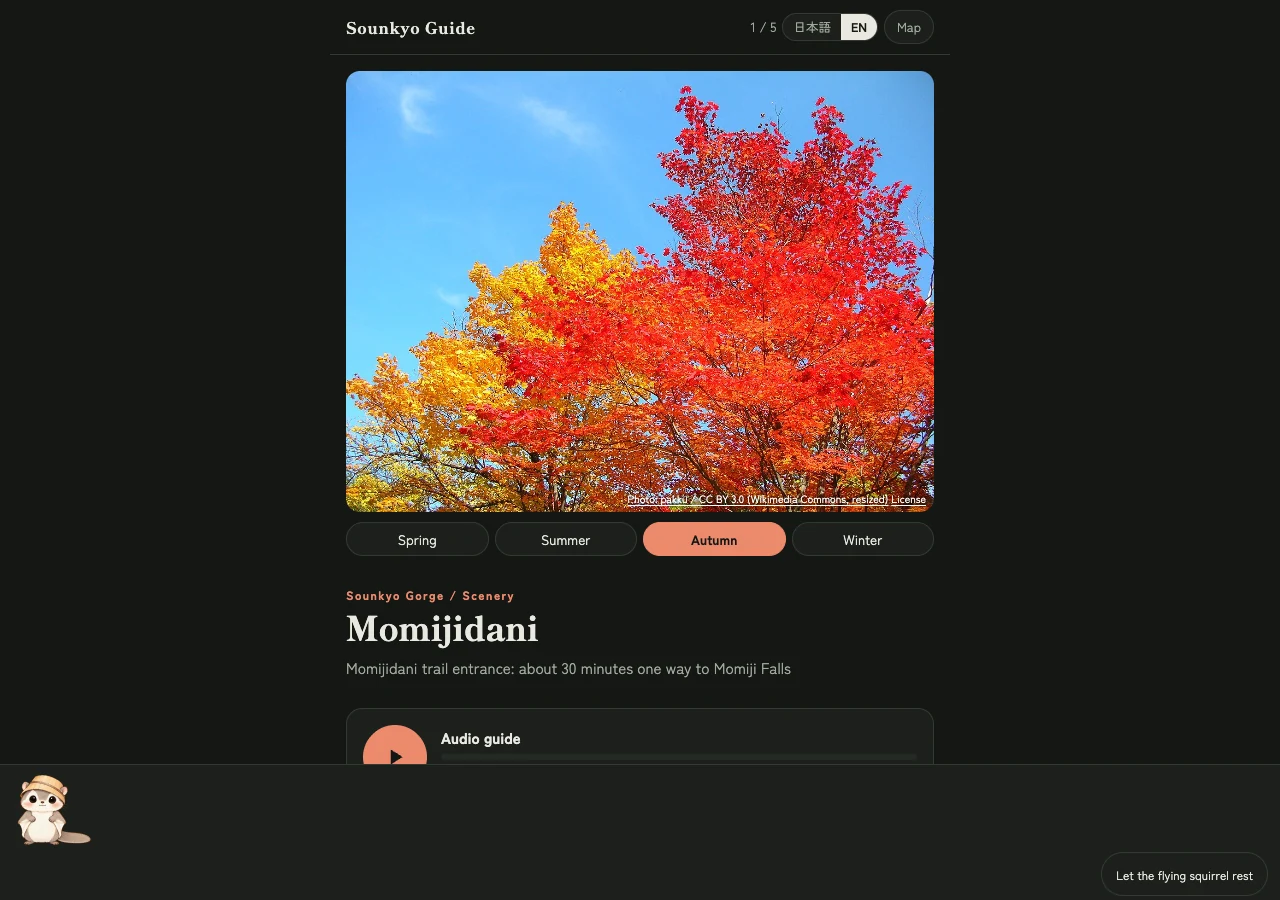
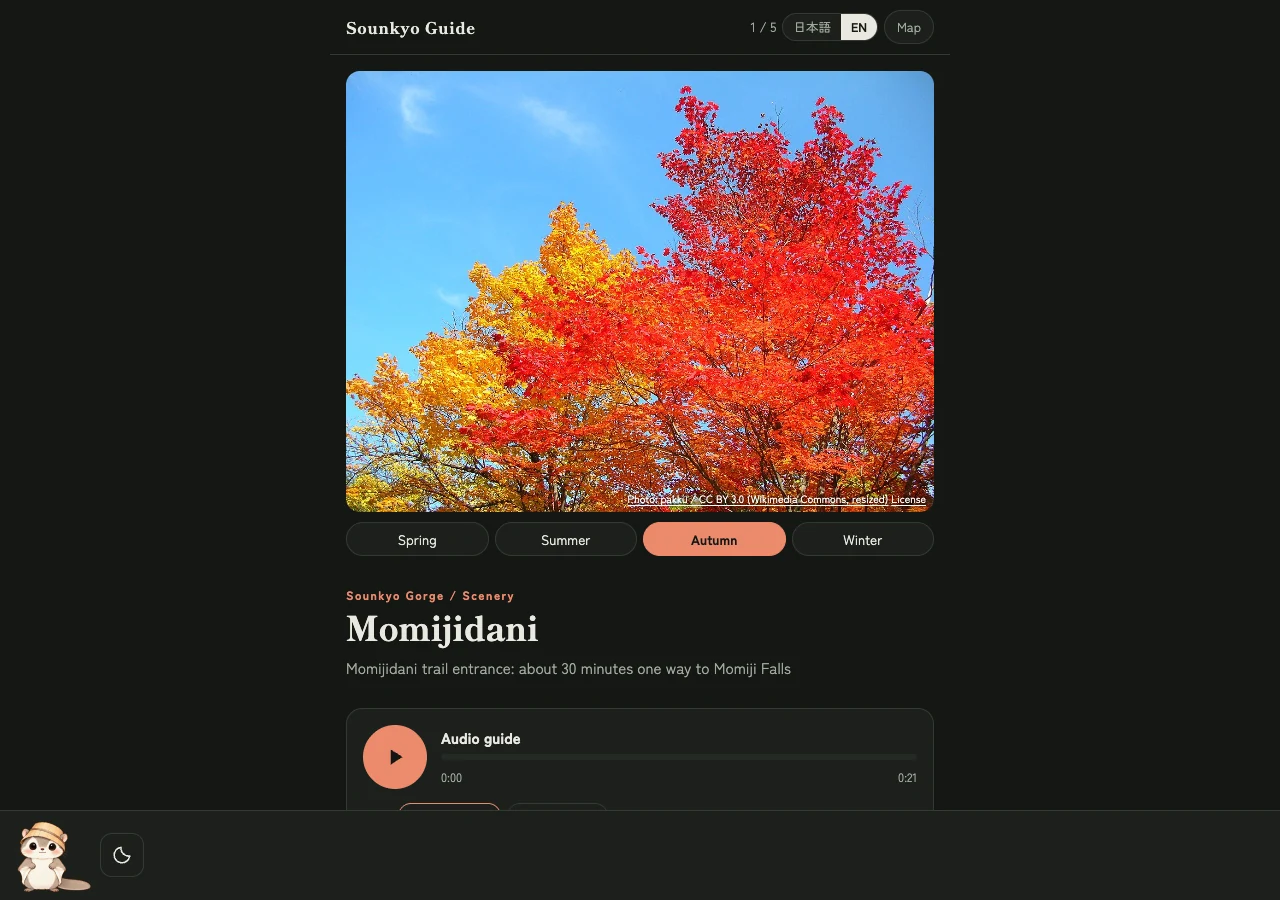
モモンガの帯を90pxに縮め、休ませる操作をアイコン化

diff --git a/momonga.js b/momonga.js
@@ -5,6 +5,11 @@
   if (!page) return;
   const POSES = ['stand','wave','crouch','jump','glide','land','think','surprise','sleepy','yuagari'];
   const STORAGE = 'sounkyo-guide:momonga-resting';
+  const DOCK = 'sounkyo-guide:momonga-dock';
+  const ICONS = {
+    rest: '<svg viewBox="0 0 24 24" fill="none" stroke="currentColor" stroke-width="1.7" stroke-linecap="round" stroke-linejoin="round" aria-hidden="true" focusable="false"><path d="M20.4 13.1A8.5 8.5 0 0 1 10.9 3.6a8.5 8.5 0 1 0 9.5 9.5Z"/></svg>',
+    wake: '<svg viewBox="0 0 24 24" fill="none" stroke="currentColor" stroke-width="1.7" stroke-linecap="round" aria-hidden="true" focusable="false"><circle cx="12" cy="12" r="4"/><path d="M12 2v2m0 16v2M2 12h2m16 0h2M4.9 4.9l1.4 1.4m11.4 11.4 1.4 1.4M4.9 19.1l1.4-1.4M17.7 6.3l1.4-1.4"/></svg>'
+  };
   const IDLE = 45000;
   const motion = matchMedia('(prefers-reduced-motion: reduce)');
   const reading = document.createElement('div');
@@ -14,7 +19,7 @@
   document.body.classList.add('momonga-enabled');
   const stage = document.createElement('div');
   stage.className = 'momonga-stage';
-  stage.innerHTML = '<div class="momonga-lane"></div><div class="momonga-position"><button type="button" class="momonga-pet" hidden><img alt="" width="80" height="80" draggable="false"></button><div class="momonga-dialogue" role="status" aria-live="polite" hidden></div></div><button type="button" class="momonga-rest"></button>';
+  stage.innerHTML = '<div class="momonga-lane"></div><div class="momonga-position"><button type="button" class="momonga-pet" hidden><img alt="" width="80" height="80" draggable="false"></button><button type="button" class="momonga-rest"></button><div class="momonga-dialogue" role="status" aria-live="polite" hidden></div></div>';
   document.body.append(stage);
   const lane = stage.querySelector('.momonga-lane');
   const position = stage.querySelector('.momonga-position');
@@ -25,8 +30,12 @@
   const credit = document.createElement('span');
   credit.className = 'momonga-credit';
   page.querySelector('footer')?.append(credit);
-  let resting = false;
-  try { resting = localStorage.getItem(STORAGE) === 'true'; } catch (_) { /* Storage can be denied. */ }
+  let resting = false, dockFraction = 0;
+  try {
+    resting = localStorage.getItem(STORAGE) === 'true';
+    const saved = Number(localStorage.getItem(DOCK));
+    if (Number.isFinite(saved)) dockFraction = Math.max(0, Math.min(1, saved));
+  } catch (_) { /* Storage can be denied. */ }
   let lines = [], pose = 'stand', side = 'left', x = 12;
   let lastActivity = Date.now(), journeyTimer, idleTimer, bubbleTimer, action = null, assetsPromise;
   const images = new Map();
@@ -37,7 +46,10 @@
   function labels() {
     const en = language() === 'en';
     pet.setAttribute('aria-label', en ? 'Greet the flying squirrel' : 'モモンガにあいさつする');
-    rest.textContent = en ? (resting ? 'Wake the flying squirrel' : 'Let the flying squirrel rest') : (resting ? 'モモンガを起こす' : 'モモンガを休ませる');
+    const label = en ? (resting ? 'Wake the flying squirrel' : 'Let the flying squirrel rest') : (resting ? 'モモンガを起こす' : 'モモンガを休ませる');
+    rest.setAttribute('aria-label', label);
+    rest.title = label;
+    rest.innerHTML = resting ? ICONS.wake : ICONS.rest;
     rest.setAttribute('aria-pressed', String(resting));
     credit.textContent = en ? 'Flying squirrel: AI-created illustration (ChatGPT)' : 'エゾモモンガ：AIで作ったイメージ（ChatGPT）';
   }
@@ -49,7 +61,11 @@
     if (images.has(pose)) sprite.src = images.get(pose).src;
   }
   function locate() {
-    x = side === 'left' ? 12 : Math.max(12, lane.clientWidth - 92);
+    const right = Math.max(12, lane.clientWidth - 144);
+    if (resting) {
+      x = 12 + dockFraction * (right - 12);
+      side = dockFraction < 0.5 ? 'left' : 'right';
+    } else x = side === 'left' ? 12 : right;
     position.style.transition = 'none';
     position.style.setProperty('--momonga-x', `${x}px`);
     position.dataset.side = side;
@@ -106,8 +122,8 @@
     setPose('jump');
     pet.classList.add('momonga-lift');
     if (!await delay(220, signal)) return;
-    side = x < lane.clientWidth / 2 - 40 ? 'right' : 'left';
-    const target = side === 'right' ? Math.max(12, lane.clientWidth - 92) : 12;
+    side = x < (lane.clientWidth - 132) / 2 ? 'right' : 'left';
+    const target = side === 'right' ? Math.max(12, lane.clientWidth - 144) : 12;
     pet.dataset.direction = target > x ? 'right' : 'left';
     setPose('glide');
     const duration = Math.min(1800, Math.max(1000, Math.abs(target - x) * 2.2));
@@ -131,11 +147,11 @@
     if (!available.length) return;
     // Database text is displayed as text, never executed as HTML.
     bubble.textContent = available[Math.floor(Math.random() * available.length)];
-    const spaceLeft = x - 12, spaceRight = lane.clientWidth - x - 92;
+    const spaceLeft = x - 24, spaceRight = lane.clientWidth - x - 156;
     const onRight = spaceRight >= spaceLeft;
     const width = Math.min(220, Math.max(spaceLeft, spaceRight));
     bubble.style.width = `${width}px`;
-    bubble.style.left = `${onRight ? 92 : -width - 12}px`;
+    bubble.style.left = `${onRight ? 144 : -width - 12}px`;
     bubble.style.right = 'auto';
     bubble.hidden = false;
     bubbleTimer = setTimeout(hideBubble, 6000);
@@ -167,7 +183,7 @@
   async function activate(intro) {
     await loadAssets();
     if (resting || document.hidden || !images.has('stand')) return;
-    pet.hidden = false; locate();
+    pet.hidden = false;
     if (!intro || motion.matches) { setPose('stand'); idle(); schedule(); return; }
     const controller = action = new AbortController();
     setPose('yuagari');
@@ -176,11 +192,17 @@
   }
   function setResting(value, persist = true) {
     resting = value;
-    if (persist) { try { localStorage.setItem(STORAGE, String(value)); } catch (_) { /* Keep this page working without persistence. */ } }
     clearTimers(); stopAction(); hideBubble();
+    if (resting) dockFraction = Math.max(0, Math.min(1, (x - 12) / Math.max(1, lane.clientWidth - 156)));
+    if (persist) {
+      try {
+        localStorage.setItem(DOCK, String(dockFraction));
+        localStorage.setItem(STORAGE, String(value));
+      } catch (_) { /* Keep this page working without persistence. */ }
+    }
     document.body.classList.toggle('momonga-resting', resting);
     pet.hidden = resting || !images.has('stand');
-    labels(); locate();
+    labels();
     if (!resting) { lastActivity = Date.now(); activate(false); }
   }
   pet.addEventListener('click', greet);

diff --git a/momonga.css b/momonga.css
@@ -1,18 +1,18 @@
 /* A separate reading viewport leaves a clear margin for the mascot. */
-body.momonga-enabled{--momonga-lane:136px;overflow:hidden}
-body.momonga-enabled.momonga-resting{--momonga-lane:52px}
+body.momonga-enabled{--momonga-lane:90px;overflow:hidden}
 .momonga-enabled #momonga-reading{position:fixed;inset:0 0 calc(var(--momonga-lane) + env(safe-area-inset-bottom,0px));overflow:auto;overscroll-behavior-y:contain;scroll-behavior:smooth}
 .momonga-stage{--m-bg:var(--surface,var(--snow,#F5F4EF));--m-ink:var(--ink,var(--night,#1E2B3C));--m-line:var(--line,var(--mist,#E3E6E2));position:fixed;inset:0;z-index:30;pointer-events:none;font-family:var(--body,system-ui,sans-serif);color:var(--m-ink)}
 .momonga-lane{position:absolute;inset:auto 0 0;height:calc(var(--momonga-lane) + env(safe-area-inset-bottom,0px));background:var(--m-bg);border-top:1px solid var(--m-line)}
-.momonga-position{--momonga-x:12px;position:absolute;left:0;bottom:calc(52px + env(safe-area-inset-bottom,0px));width:80px;height:80px;transform:translateX(clamp(12px,var(--momonga-x),calc(100vw - 92px)));will-change:transform}
+.momonga-position{--momonga-x:12px;position:absolute;left:0;bottom:calc(5px + env(safe-area-inset-bottom,0px));width:132px;height:80px;transform:translateX(clamp(12px,var(--momonga-x),calc(100vw - 144px)));will-change:transform}
 .momonga-pet{display:block;position:relative;width:80px;height:80px;padding:0;margin:0;border:0;border-radius:16px;background:transparent;cursor:pointer;pointer-events:auto;touch-action:manipulation}
 .momonga-pet img{display:block;width:100%;height:100%;object-fit:contain;pointer-events:none;user-select:none;-webkit-user-drag:none}
 .momonga-pet[data-pose="glide"][data-direction="right"] img{transform:scaleX(-1)}
 .momonga-pet.momonga-lift{transform:translateY(-4px)}
 .momonga-pet:focus-visible,.momonga-rest:focus-visible{outline:2px solid #3D7C84;outline-offset:2px}
-.momonga-rest{position:absolute;right:12px;bottom:calc(4px + env(safe-area-inset-bottom,0px));min-height:44px;padding:7px 14px;border:1px solid var(--m-line);border-radius:999px;background:var(--m-bg);color:var(--m-ink);font:inherit;font-size:12px;cursor:pointer;pointer-events:auto;touch-action:manipulation}
-.momonga-dialogue{position:absolute;top:2px;left:92px;width:min(220px,calc(100vw - 116px));max-height:78px;overflow:auto;padding:8px 12px;border:1px solid var(--m-line);border-radius:14px 14px 14px 3px;background:var(--m-bg);color:var(--m-ink);font-size:12px;line-height:1.5;overflow-wrap:anywhere;pointer-events:auto}
-.momonga-position[data-side="right"] .momonga-dialogue{left:auto;right:92px;border-radius:14px 14px 3px 14px}
+.momonga-rest{position:absolute;left:88px;top:18px;width:44px;height:44px;padding:0;display:grid;place-items:center;border:1px solid var(--m-line);border-radius:12px;background:var(--m-bg);color:var(--m-ink);cursor:pointer;pointer-events:auto;touch-action:manipulation}
+.momonga-rest svg{display:block;width:22px;height:22px;pointer-events:none}
+.momonga-dialogue{position:absolute;top:2px;left:144px;width:min(220px,calc(100vw - 168px));max-height:78px;overflow:auto;padding:8px 12px;border:1px solid var(--m-line);border-radius:14px 14px 14px 3px;background:var(--m-bg);color:var(--m-ink);font-size:12px;line-height:1.5;overflow-wrap:anywhere;pointer-events:auto}
+.momonga-position[data-side="right"] .momonga-dialogue{left:auto;right:144px;border-radius:14px 14px 3px 14px}
 .momonga-stage [hidden]{display:none!important}
 .momonga-credit{display:block;font:inherit}
 body.sheet .momonga-stage{visibility:hidden}
